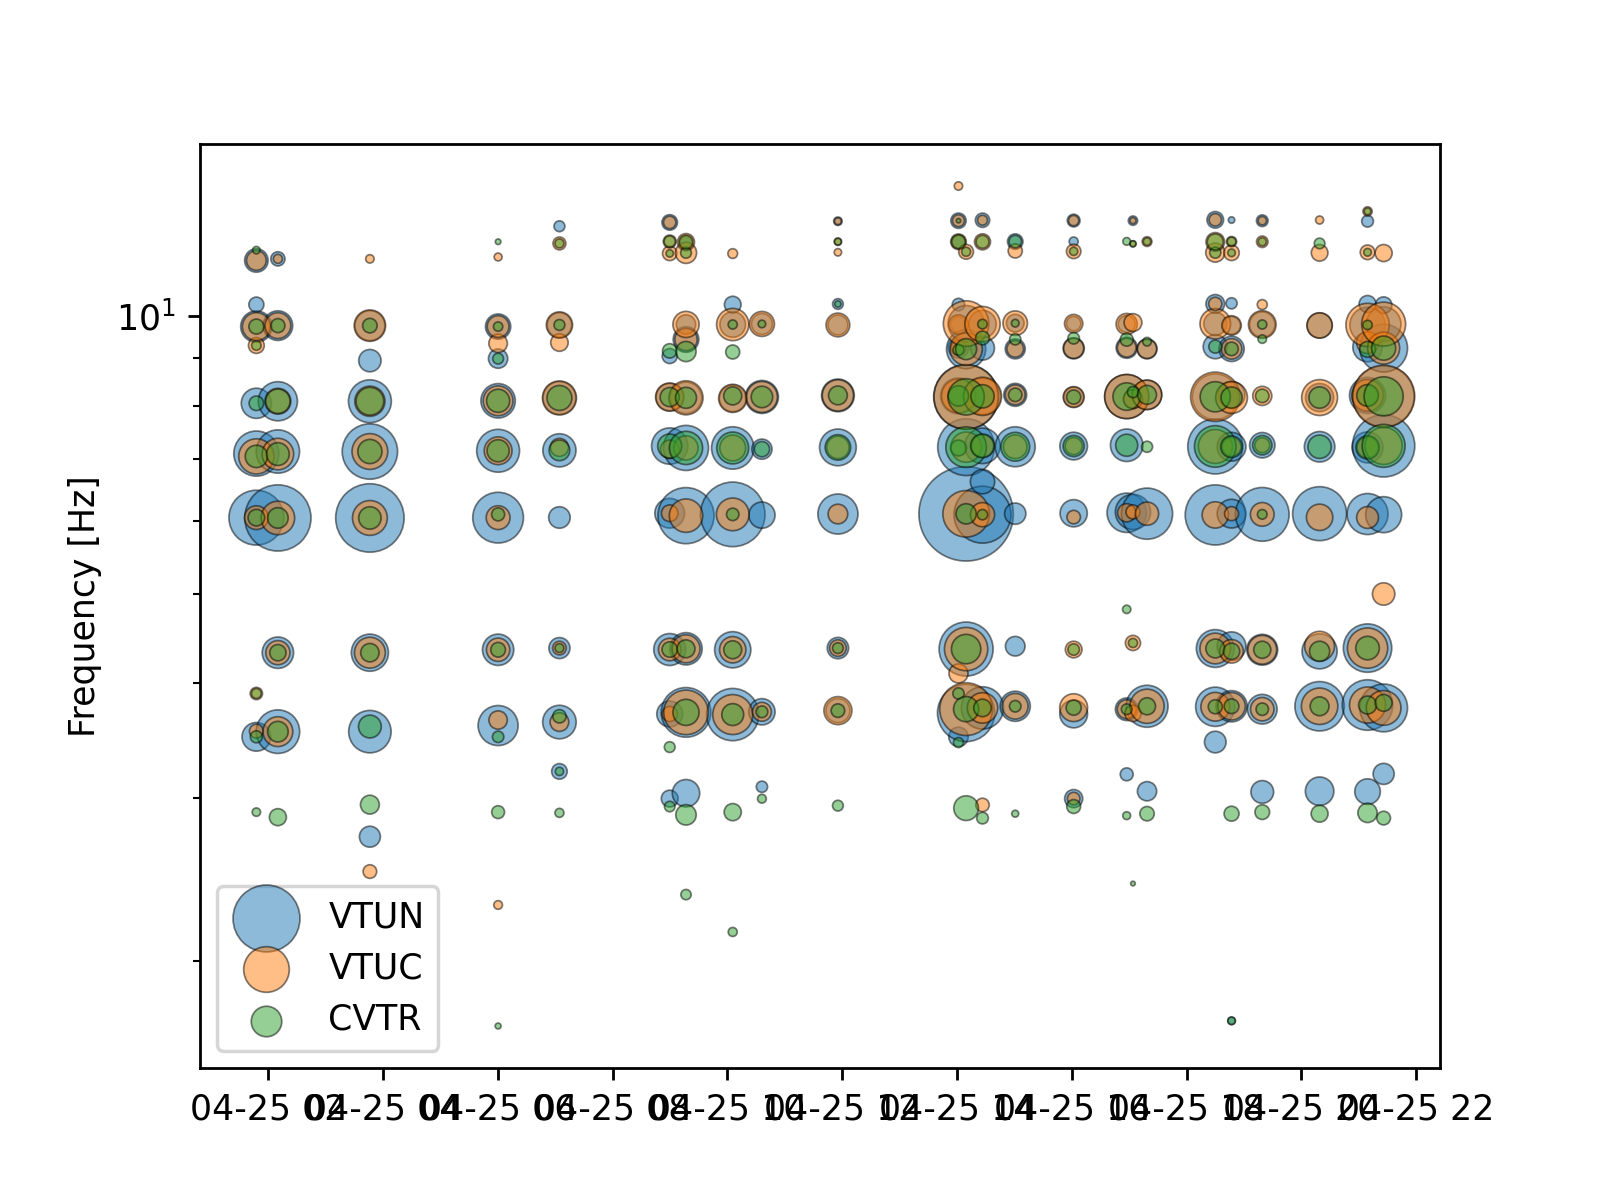
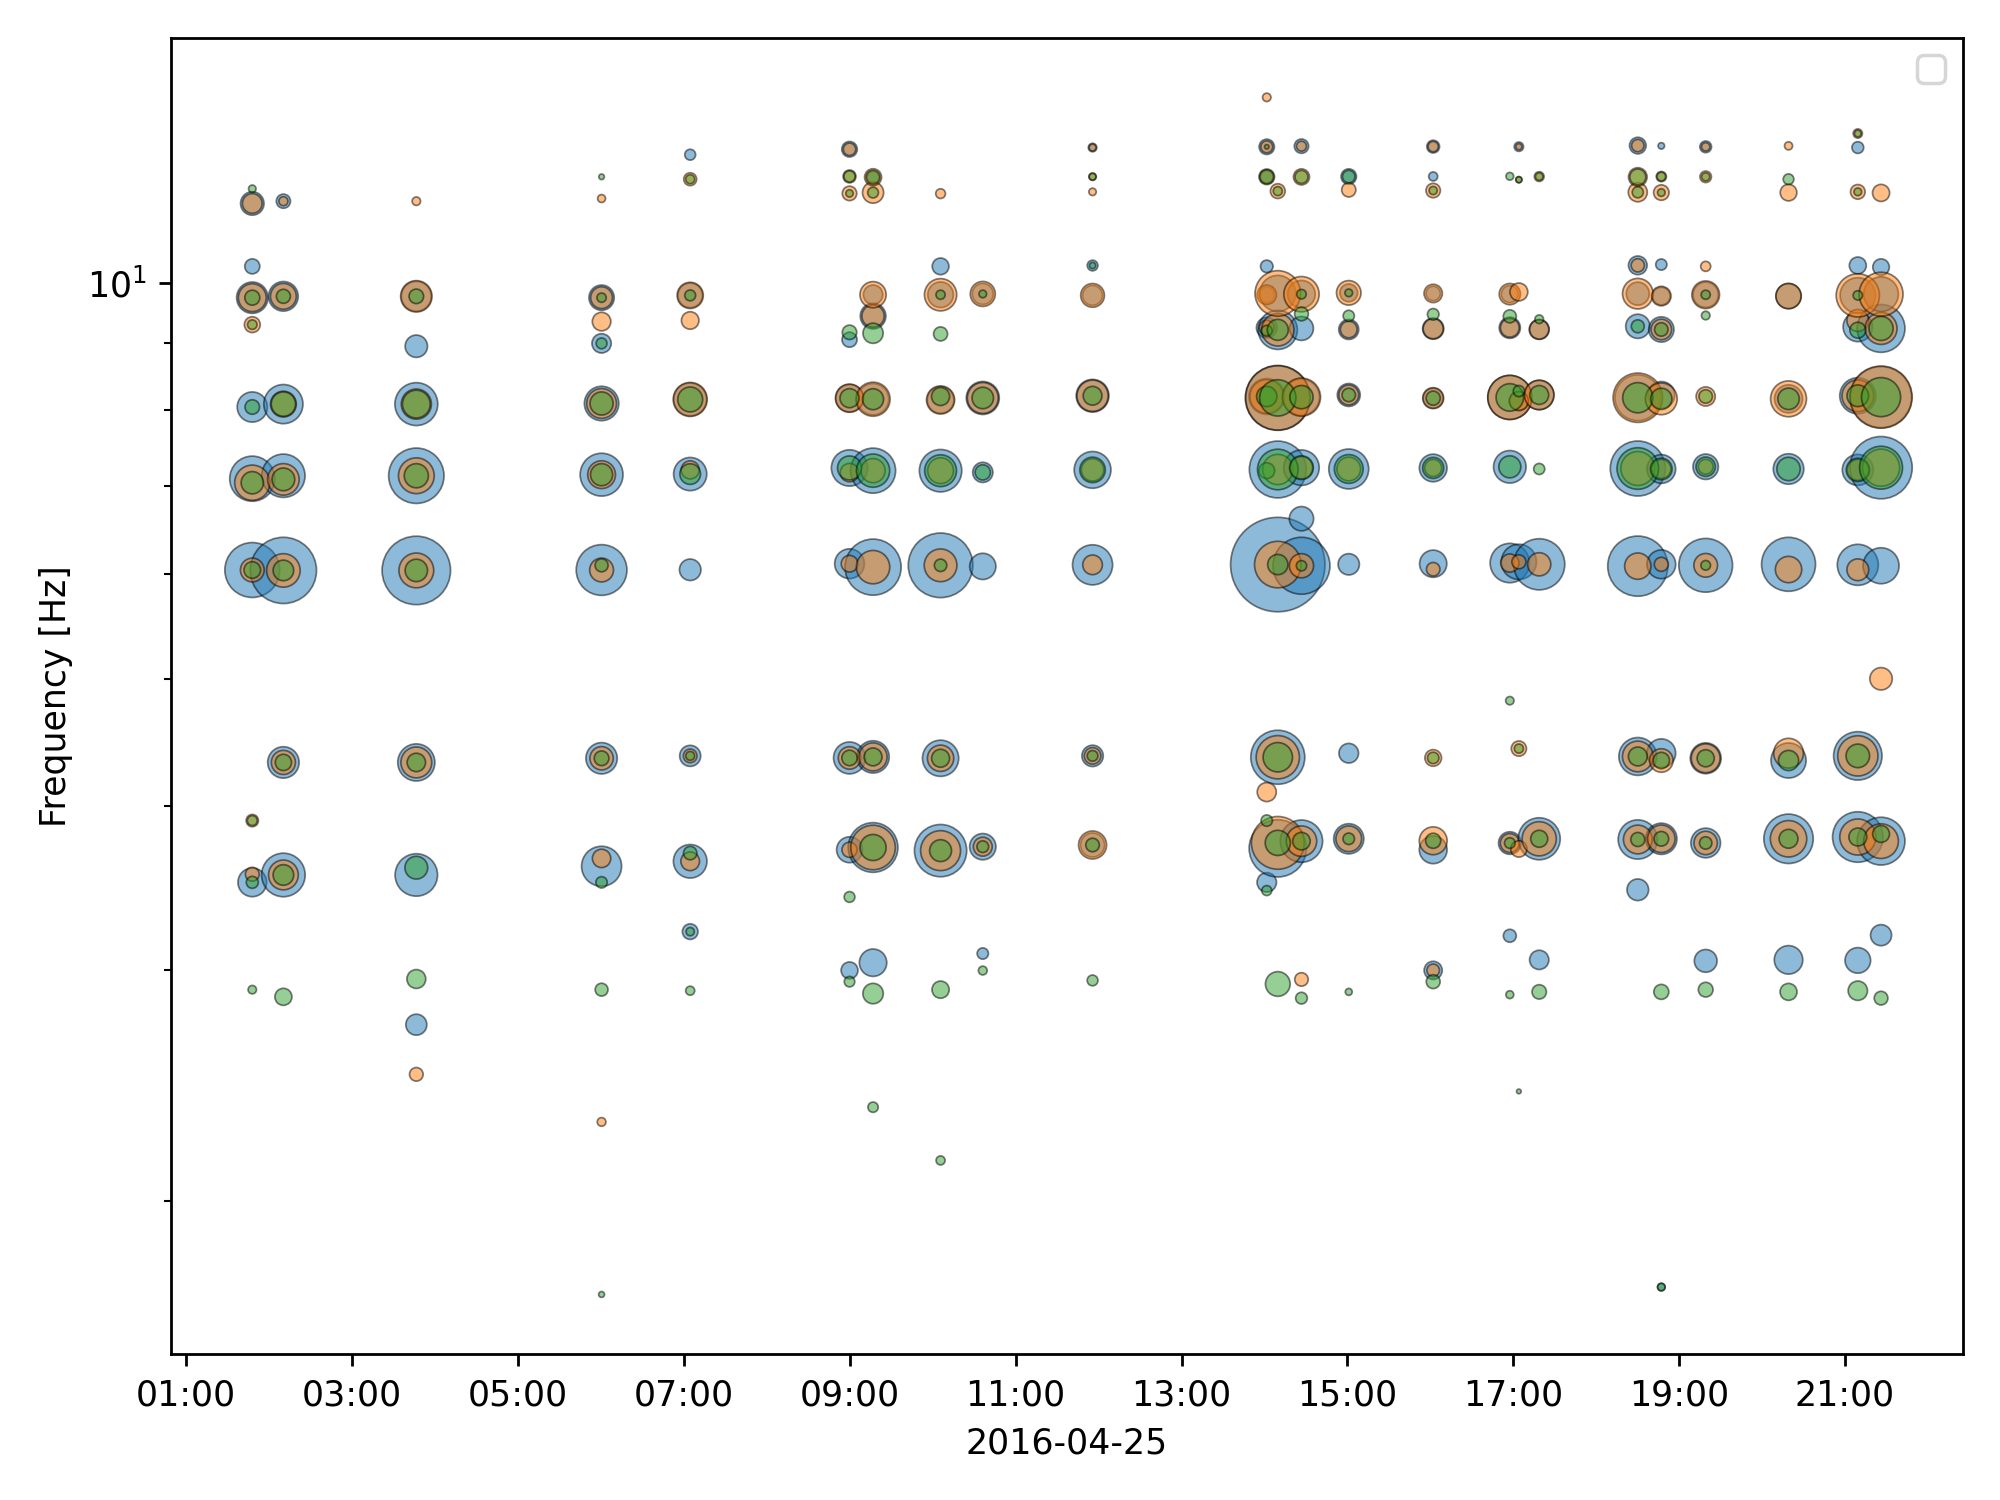
minor

diff --git a/example/automatic_processing.py b/example/automatic_processing.py
@@ -10,6 +10,7 @@ import argparse
 import os
 
 # Other dependencies
+import matplotlib.dates as md
 import matplotlib.pyplot as plt
 import obspy
 import pandas as pd
@@ -80,10 +81,18 @@ def main():
 
     stations = [tr.stats.station for tr in st]
 
+    fig, ax = plt.subplots(figsize=(8, 6))
+    ax.set_ylabel('Frequency [Hz]')
+    ax.set_yscale('log')
+    ax.legend()
+    ax.xaxis.set_major_locator(md.HourLocator(interval=2))
+    ax.xaxis.set_major_formatter(md.DateFormatter('%H:%M'))
+    ax.set_xlabel(st[0].stats.starttime.date)
+
     out['s'] = out.amplitude/2
     for station in stations:
         _out = out[out.station == station]
-        plt.scatter(
+        ax.scatter(
             _out.t,
             _out.frequency,
             label=station,
@@ -93,10 +102,8 @@ def main():
             alpha=0.5,
         )
 
-    plt.ylabel('Frequency [Hz]')
-    plt.yscale('log')
-    plt.legend()
-    plt.savefig('results.png', dpi=250)
+    fig.tight_layout()
+    fig.savefig('results.png', dpi=250)
     return
 
 
